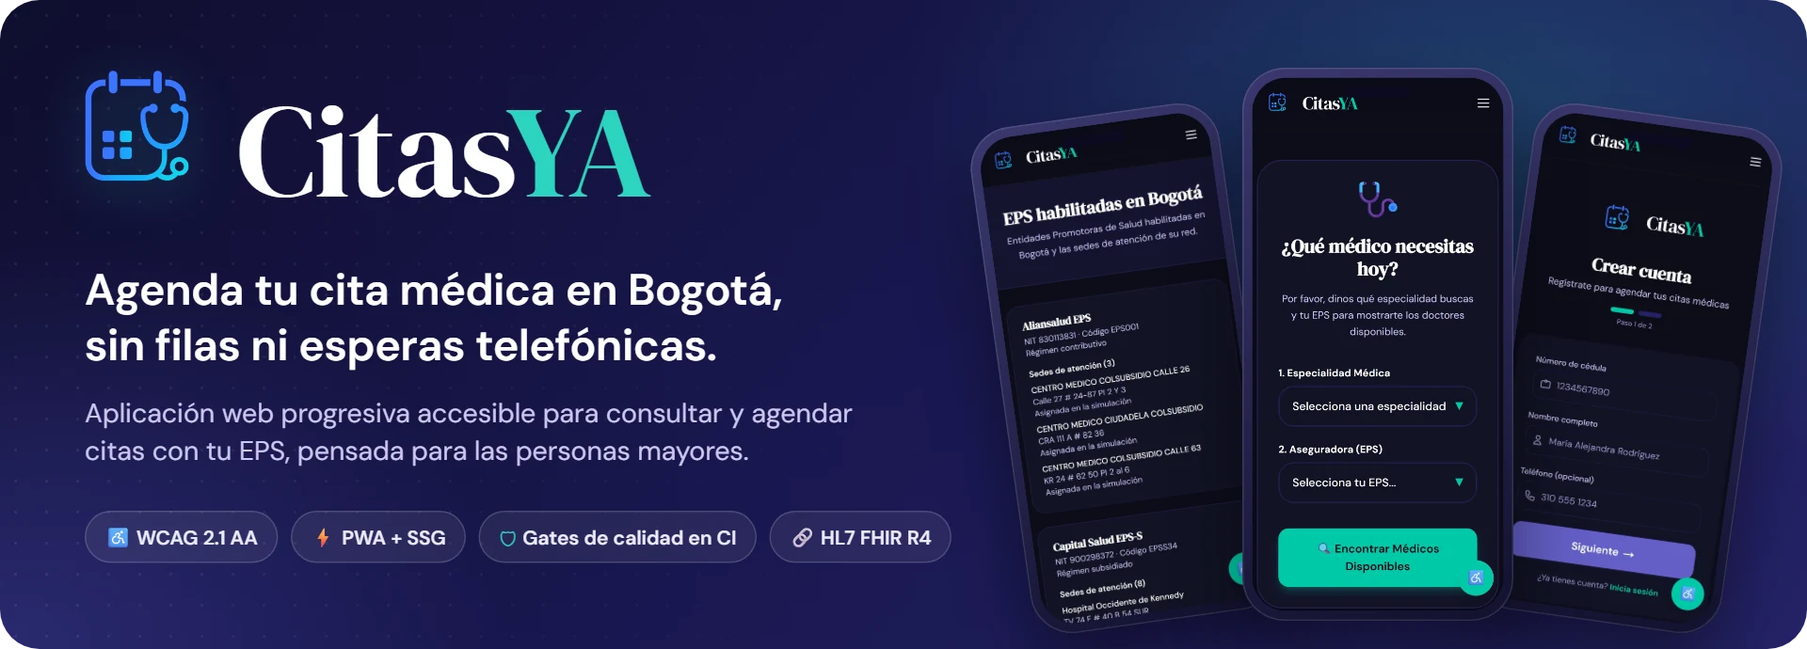
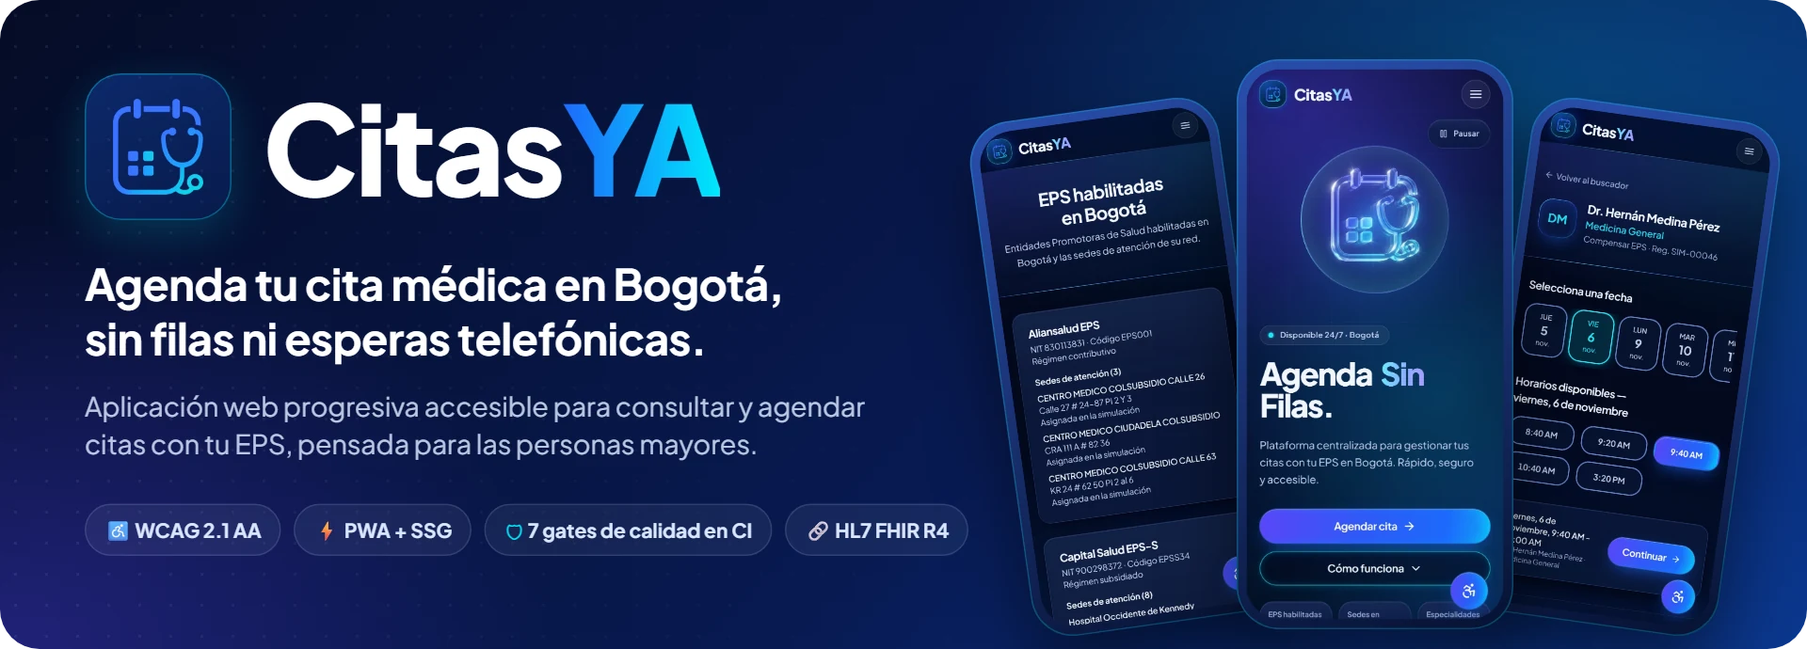
docs(readme): estado de cierre del proyecto con el diseño actual
- Resultados con la medición de cierre del 12-nov-2026: rendimiento móvil
  99, LCP móvil 1,73 s en la peor página, axe 0, IND-10 10 de 10. Se quita
  la nota que decía que el gate de Lighthouse móvil era informativo.
- Banner, tarjetas de resultados, gráfico de LCP y capturas rehechos con la
  identidad «noche clínica» (ADR-0010). La captura anterior mostraba las
  estadísticas sin fuente que se corrigieron en H-15.
- Diagrama de arquitectura con el módulo FHIR en producción y los 7 gates.
- Pruebas: 116 unitarias, 32 E2E, 38 reglas de base de datos y 10 casos FHIR.
- Funcionalidades: «Mi familia», interoperabilidad FHIR y la limitación del
  correo (dominio sin verificar).
- Hoja de ruta: los cuatro sprints cerrados y el trabajo futuro.
- Insignias con la paleta actual.

diff --git a/docs/img/fuente/graficos.html b/docs/img/fuente/graficos.html
@@ -4,87 +4,125 @@
 <meta charset="utf-8">
 <title>Gráficos del README de CitasYA</title>
 <!--
-  Fuente de los gráficos del README (banner y tarjetas de resultados).
-  Se renderizan a PNG con: node docs/img/fuente/renderizar.mjs
-  Tipografías y colores de la propia aplicación (DM Serif Display, DM Sans; navy y turquesa).
+  Fuente de los gráficos del README: banner, tarjetas de resultados, LCP por página y capturas.
+  Se renderizan con: node docs/img/fuente/renderizar.mjs (genera los PNG y los convierte a WebP).
+  Identidad «noche clínica» (ADR-0010): Plus Jakarta Sans; azul marino #0B388F, azul #1D69FC,
+  cian #00E9FC, violeta #5843FC y hielo #DAE6FE.
+  Cifras: línea base del 22-sep-2026 y medición de cierre del 12-nov-2026 en producción
+  (Lighthouse 12.8, mediana de 3 corridas; axe-core 4.11 en 7 vistas).
 -->
 <style>
-  @font-face { font-family: 'DM Serif Display'; src: url('../../../node_modules/@fontsource/dm-serif-display/files/dm-serif-display-latin-400-normal.woff2') format('woff2'); }
-  @font-face { font-family: 'DM Sans'; font-weight: 100 1000; src: url('../../../node_modules/@fontsource-variable/dm-sans/files/dm-sans-latin-wght-normal.woff2') format('woff2'); }
-  :root { --navy-950: #0f0e2e; --navy-900: #1a1852; --navy-800: #252367; --lav: #cdc7f0; --teal: #2dd4bf; --teal-2: #14b8a6; }
+  @font-face { font-family: 'Plus Jakarta Sans'; font-weight: 200 800;
+    src: url('../../../node_modules/@fontsource-variable/plus-jakarta-sans/files/plus-jakarta-sans-latin-wght-normal.woff2') format('woff2'); }
+  :root {
+    --fondo-1: #050c26; --fondo-2: #081a52; --marino: #0B388F; --azul: #1D69FC; --cian: #00E9FC;
+    --violeta: #5843FC; --hielo: #DAE6FE; --tenue: #9fb2e0; --borde: rgba(218, 230, 254, .14);
+  }
   * { box-sizing: border-box; margin: 0; }
-  body { background: transparent; font-family: 'DM Sans', sans-serif; }
+  body { background: transparent; font-family: 'Plus Jakarta Sans', sans-serif; color: #fff; }
   .lienzo { padding: 8px; display: inline-block; }
 
   /* ── Banner ── */
   #banner {
     width: 1280px; height: 460px; border-radius: 28px; overflow: hidden; position: relative;
     background:
-      radial-gradient(600px 380px at 82% 20%, rgba(45, 212, 191, .22), transparent 70%),
-      radial-gradient(520px 420px at 0% 100%, rgba(99, 102, 241, .28), transparent 70%),
-      linear-gradient(135deg, var(--navy-950) 0%, var(--navy-900) 55%, var(--navy-800) 100%);
-    color: #fff;
+      radial-gradient(560px 380px at 84% 18%, rgba(0, 233, 252, .20), transparent 70%),
+      radial-gradient(560px 440px at 0% 100%, rgba(88, 67, 252, .32), transparent 70%),
+      linear-gradient(135deg, var(--fondo-1) 0%, var(--fondo-2) 58%, var(--marino) 100%);
   }
   #banner::before {
     content: ''; position: absolute; inset: 0;
-    background-image: radial-gradient(rgba(255,255,255,.07) 1.2px, transparent 1.2px);
+    background-image: radial-gradient(rgba(218,230,254,.08) 1.2px, transparent 1.2px);
     background-size: 22px 22px;
     mask-image: linear-gradient(90deg, #000 0%, transparent 60%);
   }
-  .izq { position: absolute; left: 60px; top: 50px; width: 680px; }
+  .izq { position: absolute; left: 60px; top: 52px; width: 690px; }
   .marca { display: flex; align-items: center; gap: 22px; }
-  .marca img { width: 86px; filter: drop-shadow(0 6px 18px rgba(45,212,191,.35)); }
-  .marca h1 { font-family: 'DM Serif Display', serif; font-weight: 400; font-size: 92px; line-height: 1; letter-spacing: -1px; }
-  .marca h1 span { color: var(--teal); }
-  .lema { margin-top: 24px; font-size: 31px; font-weight: 600; line-height: 1.25; letter-spacing: -.2px; }
-  .sub { margin-top: 14px; font-size: 19px; color: var(--lav); line-height: 1.45; }
+  .marca .placa { width: 104px; height: 104px; border-radius: 26px; display: grid; place-items: center;
+                  background: linear-gradient(150deg, rgba(29,105,252,.30), rgba(11,56,143,.25));
+                  box-shadow: inset 0 0 0 1px rgba(0,233,252,.35), 0 10px 30px rgba(0,233,252,.18); }
+  .marca .placa img { width: 64px; }
+  .marca h1 { font-size: 88px; font-weight: 800; line-height: 1; letter-spacing: -2.5px; }
+  .marca h1 span { background: linear-gradient(90deg, var(--azul), var(--cian)); -webkit-background-clip: text; background-clip: text; color: transparent; }
+  .lema { margin-top: 26px; font-size: 31px; font-weight: 700; line-height: 1.25; letter-spacing: -.4px; }
+  .sub { margin-top: 14px; font-size: 19px; color: var(--hielo); opacity: .85; line-height: 1.45; }
   .chips { margin-top: 28px; display: flex; flex-wrap: nowrap; gap: 9px; }
-  .chip { font-size: 14px; font-weight: 600; padding: 8px 13px; white-space: nowrap; border-radius: 999px;
-          background: rgba(255,255,255,.07); border: 1px solid rgba(255,255,255,.16); color: #eceaff; }
-  .chip b { color: var(--teal); font-weight: 700; }
+  .chip { font-size: 14px; font-weight: 700; padding: 8px 13px; white-space: nowrap; border-radius: 999px;
+          background: rgba(218,230,254,.07); border: 1px solid var(--borde); color: var(--hielo); }
+  .chip b { color: var(--cian); }
 
-  .telefonos { position: absolute; right: 30px; top: 34px; width: 560px; height: 420px; }
-  .tel { position: absolute; width: 178px; height: 362px; border-radius: 30px; padding: 7px;
-         background: linear-gradient(160deg, #3a3870, #12112e); box-shadow: 0 24px 50px rgba(0,0,0,.45), inset 0 0 0 1px rgba(255,255,255,.12); }
+  .telefonos { position: absolute; right: 30px; top: 30px; width: 560px; height: 420px; }
+  .tel { position: absolute; width: 178px; height: 368px; border-radius: 30px; padding: 7px;
+         background: linear-gradient(160deg, #2a4fae, #071233); box-shadow: 0 24px 50px rgba(0,0,0,.5), inset 0 0 0 1px rgba(0,233,252,.25); }
   .tel img { width: 100%; height: 100%; object-fit: cover; object-position: top; border-radius: 24px; display: block; }
-  .tel::after { content: ''; position: absolute; top: 14px; left: 50%; width: 46px; height: 7px; margin-left: -23px; border-radius: 99px; background: #0b0a22; }
   .t1 { left: 18px;  top: 46px; transform: rotate(-8deg); }
-  .t2 { left: 190px; top: 14px; z-index: 2; width: 192px; height: 392px; }
-  .t3 { left: 374px; top: 46px; transform: rotate(8deg); }
+  .t2 { left: 186px; top: 12px; z-index: 2; width: 196px; height: 404px; }
+  .t3 { left: 372px; top: 46px; transform: rotate(8deg); }
 
   /* ── Tarjetas de resultados ── */
   #metricas { width: 1280px; display: grid; grid-template-columns: repeat(4, 1fr); gap: 18px; }
-  .tarjeta { border-radius: 22px; padding: 26px 26px 22px; color: #fff; position: relative; overflow: hidden;
-             background: linear-gradient(150deg, var(--navy-900), var(--navy-950)); box-shadow: inset 0 0 0 1px rgba(255,255,255,.08); }
-  .tarjeta::after { content: ''; position: absolute; right: -40px; top: -40px; width: 140px; height: 140px; border-radius: 50%;
-                    background: radial-gradient(circle, rgba(45,212,191,.28), transparent 70%); }
-  .etiqueta { font-size: 15px; font-weight: 600; color: var(--lav); text-transform: uppercase; letter-spacing: .8px; }
+  .tarjeta { border-radius: 22px; padding: 26px 26px 22px; position: relative; overflow: hidden;
+             background: linear-gradient(150deg, var(--fondo-2), var(--fondo-1)); box-shadow: inset 0 0 0 1px var(--borde); }
+  .tarjeta::after { content: ''; position: absolute; right: -40px; top: -40px; width: 150px; height: 150px; border-radius: 50%;
+                    background: radial-gradient(circle, rgba(0,233,252,.22), transparent 70%); }
+  .etiqueta { font-size: 14.5px; font-weight: 700; color: var(--tenue); text-transform: uppercase; letter-spacing: .9px; }
   .valores { margin-top: 16px; display: flex; align-items: baseline; gap: 14px; }
-  .antes { font-size: 30px; font-weight: 600; color: #8f8ab8; text-decoration: line-through; text-decoration-thickness: 2px; }
-  .flecha { font-size: 24px; color: #8f8ab8; }
-  .ahora { font-family: 'DM Serif Display', serif; font-size: 66px; line-height: 1; color: var(--teal); }
-  .ahora small { font-family: 'DM Sans', sans-serif; font-size: 24px; font-weight: 600; margin-left: 2px; }
-  .detalle { margin-top: 12px; font-size: 14.5px; color: #b9b4e0; line-height: 1.4; }
+  .antes { white-space: nowrap; font-size: 30px; font-weight: 600; color: #6f80b3; text-decoration: line-through; text-decoration-thickness: 2px; }
+  .flecha { font-size: 24px; color: #6f80b3; }
+  .ahora { font-size: 64px; font-weight: 800; line-height: 1; letter-spacing: -2px;
+           background: linear-gradient(90deg, var(--cian), #6fb2ff); -webkit-background-clip: text; background-clip: text; color: transparent; }
+  .ahora small { font-size: 24px; font-weight: 700; margin-left: 3px; letter-spacing: 0; }
+  .detalle { margin-top: 12px; font-size: 14.5px; color: var(--hielo); opacity: .8; line-height: 1.45; }
+
+  /* ── LCP por página ── */
+  #lcp { width: 1280px; border-radius: 22px; padding: 30px 40px 26px; background: linear-gradient(150deg, var(--fondo-2), var(--fondo-1));
+         box-shadow: inset 0 0 0 1px var(--borde); }
+  #lcp h2 { font-size: 22px; font-weight: 800; letter-spacing: -.3px; }
+  #lcp .nota { margin-top: 4px; font-size: 14.5px; color: var(--tenue); }
+  .grafico { position: relative; height: 330px; margin: 30px 0 0 44px; border-left: 1px solid var(--borde); border-bottom: 1px solid rgba(218,230,254,.35); }
+  .eje { position: absolute; left: -44px; width: 34px; text-align: right; font-size: 13px; color: var(--tenue); transform: translateY(50%); }
+  .guia { position: absolute; left: 0; right: 0; border-top: 1px solid rgba(218,230,254,.07); }
+  .umbral { position: absolute; left: 0; right: 0; border-top: 2px dashed #ff7a8a; }
+  .umbral span { position: absolute; right: 0; top: -24px; font-size: 13.5px; font-weight: 700; color: #ff9aa6; }
+  .grupos { position: absolute; inset: 0; display: grid; grid-template-columns: repeat(5, 1fr); }
+  .grupo { position: relative; display: flex; justify-content: center; align-items: flex-end; gap: 14px; }
+  .barra { width: 66px; border-radius: 8px 8px 0 0; position: relative; }
+  .barra b { position: absolute; left: 50%; transform: translateX(-50%); top: -24px; font-size: 14px; font-weight: 700; white-space: nowrap; }
+  .barra.base { background: linear-gradient(180deg, #5b6c9c, #3a4774); }
+  .barra.base b { color: #b9c4e6; }
+  .barra.hoy { background: linear-gradient(180deg, var(--cian), var(--azul)); box-shadow: 0 0 18px rgba(0,233,252,.35); }
+  .barra.hoy b { color: var(--cian); }
+  .rotulo { position: absolute; bottom: -30px; left: 0; right: 0; text-align: center; font-size: 14.5px; font-weight: 600; color: var(--hielo); }
+  .leyenda { margin-top: 48px; display: flex; justify-content: center; gap: 30px; font-size: 14.5px; color: var(--hielo); }
+  .leyenda i { display: inline-block; width: 14px; height: 14px; border-radius: 4px; margin-right: 8px; vertical-align: -2px; }
+
+  /* ── Capturas ── */
+  #capturas { width: 1280px; border-radius: 22px; padding: 34px 34px 26px; display: grid; grid-template-columns: repeat(4, 1fr); gap: 26px;
+              background: linear-gradient(150deg, var(--fondo-2), var(--fondo-1)); box-shadow: inset 0 0 0 1px var(--borde); }
+  .captura .marco { border-radius: 26px; padding: 6px; background: linear-gradient(160deg, #2a4fae, #071233);
+                    box-shadow: 0 16px 34px rgba(0,0,0,.45), inset 0 0 0 1px rgba(0,233,252,.25); }
+  .captura img { display: block; width: 100%; aspect-ratio: 390 / 760; object-fit: cover; object-position: top; border-radius: 21px; }
+  .captura p { margin-top: 14px; text-align: center; font-size: 16px; font-weight: 700; color: var(--hielo); }
 </style>
 </head>
 <body>
 
 <div class="lienzo"><div id="banner">
   <div class="izq">
-    <div class="marca"><img src="logo.png" alt=""><h1>Citas<span>YA</span></h1></div>
+    <div class="marca"><div class="placa"><img src="logo.png" alt=""></div><h1>Citas<span>YA</span></h1></div>
     <p class="lema">Agenda tu cita médica en Bogotá,<br>sin filas ni esperas telefónicas.</p>
     <p class="sub">Aplicación web progresiva accesible para consultar y agendar<br>citas con tu EPS, pensada para las personas mayores.</p>
     <div class="chips">
       <span class="chip"><b>♿</b> WCAG 2.1 AA</span>
       <span class="chip"><b>⚡</b> PWA + SSG</span>
-      <span class="chip"><b>🛡</b> Gates de calidad en CI</span>
+      <span class="chip"><b>🛡</b> 7 gates de calidad en CI</span>
       <span class="chip"><b>🔗</b> HL7 FHIR R4</span>
     </div>
   </div>
   <div class="telefonos">
     <div class="tel t1"><img src="movil-directorio.jpg" alt=""></div>
-    <div class="tel t2"><img src="movil-buscar.jpg" alt=""></div>
-    <div class="tel t3"><img src="movil-registro.jpg" alt=""></div>
+    <div class="tel t2"><img src="movil-portada.jpg" alt=""></div>
+    <div class="tel t3"><img src="movil-disponibilidad.jpg" alt=""></div>
   </div>
 </div></div>
 
@@ -101,15 +139,50 @@
   </div>
   <div class="tarjeta">
     <div class="etiqueta">Rendimiento móvil</div>
-    <div class="valores"><span class="antes">67</span><span class="flecha">→</span><span class="ahora">96</span></div>
-    <div class="detalle">Peor página (inicio); 99 en las<br>páginas prerenderizadas</div>
+    <div class="valores"><span class="antes">67</span><span class="flecha">→</span><span class="ahora">99</span></div>
+    <div class="detalle">Peor de las 5 páginas públicas;<br>100 en escritorio</div>
   </div>
   <div class="tarjeta">
     <div class="etiqueta">Carga en el celular (LCP)</div>
-    <div class="valores"><span class="antes">11,3 s</span><span class="flecha">→</span><span class="ahora">1,58<small>s</small></span></div>
-    <div class="detalle">Páginas prerenderizadas, 4G lenta.<br>Inicio: 11,5 s → 2,55 s</div>
+    <div class="valores"><span class="antes">11,5 s</span><span class="flecha">→</span><span class="ahora">1,73<small>s</small></span></div>
+    <div class="detalle">Peor página, 4G lenta emulada.<br>Meta de la hipótesis: ≤ 2,5 s</div>
   </div>
 </div></div>
 
+<div class="lienzo"><div id="lcp">
+  <h2>LCP móvil por página (segundos)</h2>
+  <p class="nota">Producción, Lighthouse 12.8, mediana de 3 corridas · Moto G Power emulado, 4G lenta, CPU 4×</p>
+  <div class="grafico" id="grafico"></div>
+  <div class="leyenda">
+    <span><i style="background:#4a5886"></i>Línea base (22-sep-2026)</span>
+    <span><i style="background:linear-gradient(180deg,#00E9FC,#1D69FC)"></i>Cierre (12-nov-2026)</span>
+  </div>
+</div></div>
+
+<div class="lienzo"><div id="capturas">
+  <div class="captura"><div class="marco"><img src="movil-portada.jpg" alt=""></div><p>a) Inicio</p></div>
+  <div class="captura"><div class="marco"><img src="movil-resultados.jpg" alt=""></div><p>b) Resultados de búsqueda</p></div>
+  <div class="captura"><div class="marco"><img src="movil-disponibilidad.jpg" alt=""></div><p>c) Fecha y hora</p></div>
+  <div class="captura"><div class="marco"><img src="movil-directorio.jpg" alt=""></div><p>d) Directorio de EPS</p></div>
+</div></div>
+
+<script>
+  // LCP móvil por página: línea base (22-sep-2026) y medición de cierre (12-nov-2026).
+  const datos = [['Inicio', 11.48, 1.73], ['Iniciar sesión', 11.33, 1.58], ['Registro', 10.13, 1.58],
+                 ['Directorio EPS', 3.37, 1.58], ['Búsqueda', 10.13, 1.58]];
+  const max = 12, g = document.getElementById('grafico');
+  const coma = v => v.toFixed(2).replace('.', ',');
+  for (let v = 0; v <= max; v += 2) {
+    g.insertAdjacentHTML('beforeend', `<div class="guia" style="bottom:${v / max * 100}%"></div><div class="eje" style="bottom:${v / max * 100}%">${v}</div>`);
+  }
+  g.insertAdjacentHTML('beforeend', `<div class="umbral" style="bottom:${2.5 / max * 100}%"><span>meta ≤ 2,5 s</span></div>`);
+  const grupos = document.createElement('div'); grupos.className = 'grupos'; g.appendChild(grupos);
+  for (const [pagina, base, hoy] of datos) {
+    grupos.insertAdjacentHTML('beforeend', `<div class="grupo">
+      <div class="barra base" style="height:${base / max * 100}%"><b>${coma(base)}</b></div>
+      <div class="barra hoy" style="height:${hoy / max * 100}%"><b>${coma(hoy)}</b></div>
+      <div class="rotulo">${pagina}</div></div>`);
+  }
+</script>
 </body>
 </html>

diff --git a/README.md b/README.md
@@ -47,13 +47,12 @@ En Colombia, pedir una cita médica suele implicar líneas telefónicas saturada
 ## 📊 Resultados
 
 <p align="center">
-  <img src="docs/img/resultados.webp" alt="Resultados antes y después: violaciones axe-core de 9 a 0; accesibilidad Lighthouse de 91 a 100; rendimiento móvil de 67 a 96; LCP móvil de 11,3 s a 1,58 s en las páginas prerenderizadas" width="100%">
+  <img src="docs/img/resultados.webp" alt="Resultados antes y después en la peor página: violaciones axe-core de 9 a 0; accesibilidad Lighthouse de 91 a 100; rendimiento móvil de 67 a 99; LCP móvil de 11,5 s a 1,73 s" width="100%">
 </p>
 
-<p align="center"><sub>Medición reproducible contra producción: Lighthouse 12.8 (3 corridas por página, mediana) y axe-core 4.11. Línea base del 22-sep-2026 frente al estado del 30-sep-2026.</sub></p>
+<p align="center"><sub>Medición reproducible contra producción: Lighthouse 12.8 (3 corridas por página, mediana) y axe-core 4.11. Línea base del 22-sep-2026 frente a la medición de cierre del 12-nov-2026.</sub></p>
 
-> [!NOTE]
-> La página de inicio todavía supera el LCP por 0,05 s (2,55 s frente a 2,5 s), porque su encabezado con video aún no se prerenderiza. Por eso el check de Lighthouse móvil es informativo. Cuando la página cumpla, pasará a ser obligatorio ([ADR-0003](docs/adr/0003-adopcion-progresiva-de-gates.md)).
+Las cinco páginas públicas cumplen todos los umbrales en móvil y en escritorio desde el 15-oct-2026, y los siguen cumpliendo después del módulo FHIR, la cuenta de cuidador y la renovación visual: cada cambio pasa por los mismos gates.
 
 <details>
 <summary><b>Ver la tabla completa y el gráfico por página</b></summary>
@@ -64,13 +63,14 @@ En Colombia, pedir una cita médica suele implicar líneas telefónicas saturada
 | Violaciones WCAG 2.1 A/AA críticas o serias | 2 | **0** | 0 |
 | Violaciones axe de cualquier tipo | 9 | **0** | — |
 | Lighthouse Accesibilidad (móvil / escritorio) | 91 / 91 | **100 / 100** | ≥ 98 |
-| Lighthouse Rendimiento (móvil / escritorio) | 67 / 90 | **96 / 100** | ≥ 85 / ≥ 95 |
-| LCP móvil | 11,48 s | **2,55 s** (inicio) · **1,58 s** (resto) | ≤ 2,5 s |
+| Lighthouse Rendimiento (móvil / escritorio) | 67 / 90 | **99 / 100** | ≥ 85 / ≥ 95 |
+| LCP móvil / escritorio | 11,48 s / 1,96 s | **1,73 s / 0,44 s** | ≤ 2,5 s |
 | Vulnerabilidades altas en producción | 6 | **0** | 0 |
+| Casos de interoperabilidad FHIR (IND-10) | 0 de 10 | **10 de 10** | 10 de 10 |
 
-<p align="center"><img src="docs/img/lcp.png" alt="Gráfico de barras del LCP móvil por página, antes y ahora" width="85%"></p>
+<p align="center"><img src="docs/img/lcp.webp" alt="Gráfico de barras del LCP móvil por página: en la línea base, entre 3,37 y 11,48 s; al cierre, 1,73 s en el inicio y 1,58 s en las otras cuatro páginas, todas bajo la meta de 2,5 s" width="100%"></p>
 
-Cada optimización se validó con un experimento A/B, incluido un resultado negativo documentado: diferir el cliente de Supabase redujo el JavaScript un 34 %, pero no el LCP. La solución fue el prerenderizado estático ([ADR-0006](docs/adr/0006-prerenderizado-estatico-rutas-publicas.md)).
+Cada optimización se validó con un experimento A/B, incluido un resultado negativo documentado: diferir el cliente de Supabase redujo el JavaScript un 34 %, pero no el LCP. La solución fue el prerenderizado estático ([ADR-0006](docs/adr/0006-prerenderizado-estatico-rutas-publicas.md) y [ADR-0007](docs/adr/0007-portada-prerenderizada-poster-y-animaciones-css.md)).
 
 </details>
 
@@ -86,23 +86,27 @@ Cada optimización se validó con un experimento A/B, incluido un resultado nega
     <td valign="top">🏥 <b>Directorio de EPS de Bogotá</b><br><sub>Sedes reales del REPS, con la procedencia de cada dato.</sub></td>
   </tr>
   <tr>
-    <td valign="top">♿ <b>Widget de accesibilidad</b><br><sub>Tamaño de texto, alto contraste, menos movimiento, guía de lectura y lectura por voz.</sub></td>
-    <td valign="top">✉ <b>Notificaciones por correo</b><br><sub>Confirmación, cancelación y reprogramación.</sub></td>
+    <td valign="top">👨👩👧 <b>Mi familia</b><br><sub>Cuenta de cuidador: el titular pide las citas de sus familiares, cada uno con su propia EPS.</sub></td>
+    <td valign="top">🔗 <b>Interoperabilidad HL7 FHIR R4</b><br><sub>Cada reserva, reprogramación o cancelación se publica en un servidor FHIR, con el paciente seudonimizado.</sub></td>
   </tr>
   <tr>
-    <td valign="top">🛠 <b>Panel de administración</b><br><sub>Profesionales, disponibilidad y citas, protegidos por RLS.</sub></td>
+    <td valign="top">♿ <b>Widget de accesibilidad</b><br><sub>Tamaño de texto, alto contraste, menos movimiento, guía de lectura y lectura por voz.</sub></td>
+    <td valign="top">✉ <b>Notificaciones por correo</b><br><sub>Confirmación, cancelación y reprogramación. Para entregarlas a cualquier usuario falta verificar un dominio propio.</sub></td>
+  </tr>
+  <tr>
+    <td valign="top">🛠 <b>Panel de administración</b><br><sub>Profesionales, disponibilidad, citas y estado de la publicación FHIR, protegidos por RLS.</sub></td>
     <td valign="top">📲 <b>PWA instalable</b><br><sub>Funciona como una app desde la pantalla de inicio del celular.</sub></td>
   </tr>
 </table>
 
 <p align="center">
-  <img src="docs/img/capturas.jpg" alt="Cuatro vistas de CitasYA en un celular: inicio, búsqueda de médicos, directorio de EPS de Bogotá y registro" width="92%">
+  <img src="docs/img/capturas.webp" alt="Cuatro vistas de CitasYA en un celular: inicio, resultados de búsqueda, elección de fecha y hora, y directorio de EPS de Bogotá" width="100%">
 </p>
 
 ## 🏗 Arquitectura
 
 <p align="center">
-  <img src="docs/img/arquitectura.png" alt="Diagrama de arquitectura: cliente PWA con HTML prerenderizado, CDN de Vercel, Supabase (Auth, PostgREST, Edge Function y PostgreSQL con RLS y funciones transaccionales) y pipeline de GitHub Actions" width="92%">
+  <img src="docs/img/arquitectura.png" alt="Diagrama de arquitectura: cliente PWA con HTML prerenderizado, CDN de Vercel, Supabase (Auth, PostgREST, funciones RPC, PostgreSQL con RLS, outbox FHIR y Edge Functions fhir-sync y send-email), servidor HL7 FHIR R4 y pipeline de GitHub Actions con 7 gates" width="92%">
 </p>
 
 | Capa | Decisiones clave |
@@ -110,7 +114,7 @@ Cada optimización se validó con un experimento A/B, incluido un resultado nega
 | **Frontend** | React 19 + React Router 7 con carga diferida por ruta. Las rutas públicas se **prerenderizan durante el build** y se **hidratan** en el navegador. Los componentes nunca tocan la base de datos: todo pasa por `src/services`. |
 | **Datos** | PostgreSQL 17 en Supabase con **RLS por tabla y por acción**. `reservar_cita`, `cancelar_cita` y `reprogramar_cita` son funciones transaccionales con `SELECT … FOR UPDATE` y errores tipados. La agenda se mantiene en una ventana móvil de 60 días con `pg_cron`. |
 | **Interoperabilidad** | HL7 FHIR R4. Un outbox transaccional en PostgreSQL y la Edge Function `fhir-sync` publican cada cita en un Bundle de transacción con `If-Match` sobre la franja. El paciente viaja seudonimizado (HMAC). Ver [ADR-0009](docs/adr/0009-interoperabilidad-fhir-outbox.md). |
-| **Entrega** | Archivos estáticos en la CDN de Vercel. |
+| **Entrega** | Archivos estáticos en la CDN de Vercel. Se despliega desde `main` después de integrar, y las pruebas E2E se repiten contra producción. |
 
 ## 🛡 Calidad como gates de CI
 
@@ -184,9 +188,10 @@ La base de datos se crea con las migraciones de [`supabase/migrations`](supabase
 <summary><b>Pruebas</b></summary>
 <br>
 
-- **Unitarias:** 34, con Vitest.
-- **End-to-end:** 28, con Playwright en móvil y escritorio. Incluyen axe-core y verifican que las páginas prerenderizadas se vean sin JavaScript y se hidraten sin errores.
-- **Reglas de agendamiento:** 13, en [`supabase/tests/reglas_agendamiento.sql`](supabase/tests/reglas_agendamiento.sql). Corren dentro de una transacción que siempre se revierte.
+- **Unitarias:** 116 en 18 archivos, con Vitest (reglas de tiempo de las citas, contraseñas, familia, páginas y núcleo FHIR).
+- **End-to-end:** 32, con Playwright en móvil y escritorio. Incluyen axe-core y verifican que las páginas prerenderizadas se vean sin JavaScript y se hidraten sin errores.
+- **Reglas de la base de datos:** 38, en [`supabase/tests/reglas_agendamiento.sql`](supabase/tests/reglas_agendamiento.sql): reserva, plazos, familiares y outbox FHIR. Corren dentro de una transacción que siempre se revierte.
+- **Interoperabilidad:** 10 casos (TC-01 a TC-10), en [`fhir/pruebas`](fhir/pruebas), contra HAPI FHIR R4 en Docker (`npm run test:fhir`).
 
 </details>
 
@@ -200,10 +205,11 @@ La base de datos se crea con las migraciones de [`supabase/migrations`](supabase
 │   ├── components/   # Componentes de interfaz y de diseño
 │   ├── hooks/        # Sesión y consultas (useAuth, useServiceQuery)
 │   ├── services/     # Único punto de acceso a datos; errores tipados
-│   ├── lib/          # Cliente de Supabase diferido, contraseñas, entorno
+│   ├── lib/          # Cliente de Supabase diferido, reglas de las citas, contraseñas
 │   ├── rutas.tsx     # Definición única de rutas (navegador y SSG)
 │   └── prerender.tsx # Prerenderizado estático de las rutas públicas
-├── supabase/         # Migraciones, pruebas de reglas y datos REPS
+├── supabase/         # Migraciones, Edge Functions (fhir-sync, send-email), pruebas de reglas y datos REPS
+├── fhir/pruebas/     # Casos de interoperabilidad TC-01 a TC-10
 ├── e2e/              # Pruebas Playwright (accesibilidad y prerenderizado)
 ├── scripts/          # Prerenderizado y generación de la simulación
 ├── docs/             # ADR e imágenes del README (docs/img/fuente)
@@ -241,9 +247,11 @@ La base de datos se crea con las migraciones de [`supabase/migrations`](supabase
 ## 🗺 Hoja de ruta
 
 - [x] **Sprint 1 — Optimizar.** Accesibilidad, rendimiento, seguridad, gates de CI y simulación con datos reales.
-- [ ] **Sprint 2 — Validar.** Pruebas de usabilidad (SUS) con personas de 60 años o más.
+- [x] **Sprint 2 — Validar.** Sesiones de usabilidad con 9 personas, 5 de ellas de 60 años o más: 32 de 35 tareas completadas sin ayuda directa en ese grupo. Resultados cualitativos; el cuestionario SUS no se registró.
 - [x] **Sprint 3 — Integrar.** Interoperabilidad HL7 FHIR R4 con HAPI FHIR: outbox transaccional, paciente seudonimizado e IND-10 en 10 de 10.
-- [ ] **Sprint 4 — Evaluar.** Comparativo final frente a la hipótesis del proyecto.
+- [x] **Sprint 4 — Evaluar.** Hipótesis técnica verificada y sostenida en producción (12-nov-2026); hipótesis de usabilidad sin evaluar por falta del SUS.
+
+**Trabajo futuro:** aplicar el SUS con la versión actual, verificar un dominio propio para el correo, desplegar automáticamente solo cuando pasen los 7 gates y representar al titular como `RelatedPerson` en FHIR.
 
 ## 🎓 Proyecto académico
 
